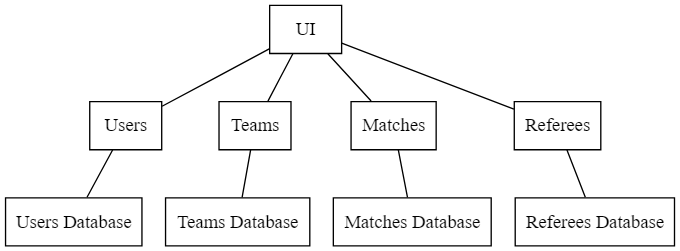
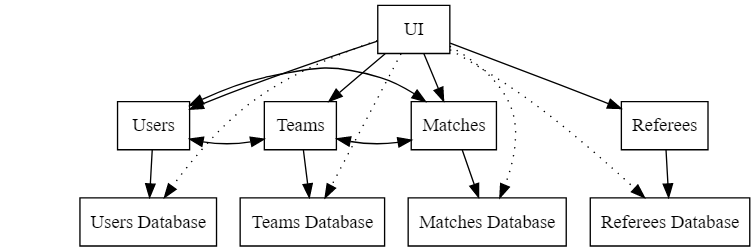
update

diff --git a/services/UI/project/__init__.py b/services/UI/project/__init__.py
@@ -1,9 +1,20 @@
 import os
 
-from flask import Flask
+from flask import Flask, abort, g, url_for
+from flask_admin import Admin
+from flask_admin.contrib.sqla import ModelView
+from flask_admin.menu import MenuLink
+from project.adminViews import ModelViewAuthorized, ModelViewAuthorizedSuperAdmin, ModelViewAuthorizedMatches
+from flask_sqlalchemy import SQLAlchemy
+from flask_sqlalchemy_session import flask_scoped_session
+from sqlalchemy import create_engine, MetaData, Table
+from sqlalchemy.orm import sessionmaker, scoped_session
+from sqlalchemy.ext.declarative import declarative_base
 
+import requests
 
-#db = SQLAlchemy()
+db = SQLAlchemy()
+
 
 def create_app(script_info=None):
 
@@ -13,7 +24,70 @@ def create_app(script_info=None):
     app_settings = os.getenv('APP_SETTINGS')
     app.config.from_object(app_settings)
 
-    #db.init_app(app)
+    try:
+        admin = Admin(app, template_mode='bootstrap3')
+        matchesEngine = create_engine("postgres://postgres:postgres@matches-db:5432/matches_dev", pool_pre_ping=True)
+        teamsEngine = create_engine("postgres://postgres:postgres@teamsclubs-db:5432/teams_dev", pool_pre_ping=True)
+        userEngine = create_engine("postgres://postgres:postgres@users-db:5432/users_dev", pool_pre_ping=True)
+        refereeEngine = create_engine("postgres://postgres:postgres@referees-db:5432/referees_dev", pool_pre_ping=True)
+
+        meta_dataMatches = MetaData(bind=matchesEngine, reflect=True)
+        matches = Table('match', meta_dataMatches, autoload_with=matchesEngine)
+
+        meta_dataTeams = MetaData(bind=teamsEngine, reflect=True)
+        teams = Table('teams', meta_dataTeams, autoload_with=teamsEngine)
+        clubs = Table('clubs', meta_dataTeams, autoload_with=teamsEngine)
+        division = Table('divisions', meta_dataTeams, autoload_with=teamsEngine)
+
+        meta_dataUsers = MetaData(bind=userEngine, reflect=True)
+        users = Table('users', meta_dataUsers, autoload_with=userEngine)
+
+        meta_dataReferees = MetaData(bind=refereeEngine, reflect=True)
+        referees = Table('referees', meta_dataReferees, autoload_with=refereeEngine)
+
+        Base = declarative_base()
+        class Matches(Base):
+            __table__ = Table('match', meta_dataMatches, autoload_with=matchesEngine)
+
+        class Teams(Base):
+            __table__ = Table('teams', meta_dataTeams, autoload_with=teamsEngine)
+
+        class Clubs(Base):
+            __table__ = Table('clubs', meta_dataTeams, autoload_with=teamsEngine)
+
+        class Division(Base):
+            __table__ = Table('divisions', meta_dataTeams, autoload_with=teamsEngine)
+
+        class Users(Base):
+            __table__ = Table('users', meta_dataUsers, autoload_with=userEngine)
+
+        class Referees(Base):
+            __table__ = Table('referees', meta_dataReferees, autoload_with=refereeEngine)
+
+        session = sessionmaker(binds={
+            matches: matchesEngine,
+            teams: teamsEngine,
+            clubs: teamsEngine,
+            division: teamsEngine,
+            users: userEngine,
+            referees: refereeEngine
+        })
+
+        finalSession = flask_scoped_session(session, app)
+
+        admin.add_view(ModelViewAuthorizedMatches(Matches, finalSession))
+        admin.add_view(ModelViewAuthorized(Teams, finalSession, category="Teams"))
+        admin.add_view(ModelViewAuthorized(Clubs, finalSession, category="Teams"))
+        admin.add_view(ModelViewAuthorized(Division, finalSession, category="Teams"))
+        admin.add_view(ModelViewAuthorized(Referees, finalSession))
+        admin.add_view(ModelViewAuthorizedSuperAdmin(Users, finalSession))
+
+        admin.add_link(MenuLink(name="Home Page", category='', url='/'))
+    except Exception:
+        pass
+
+
+    db.init_app(app)
 
     from project.main import ui_blueprint
     app.register_blueprint(ui_blueprint)
@@ -23,4 +97,3 @@ def create_app(script_info=None):
         return {'app': app}
 
     return app
-
